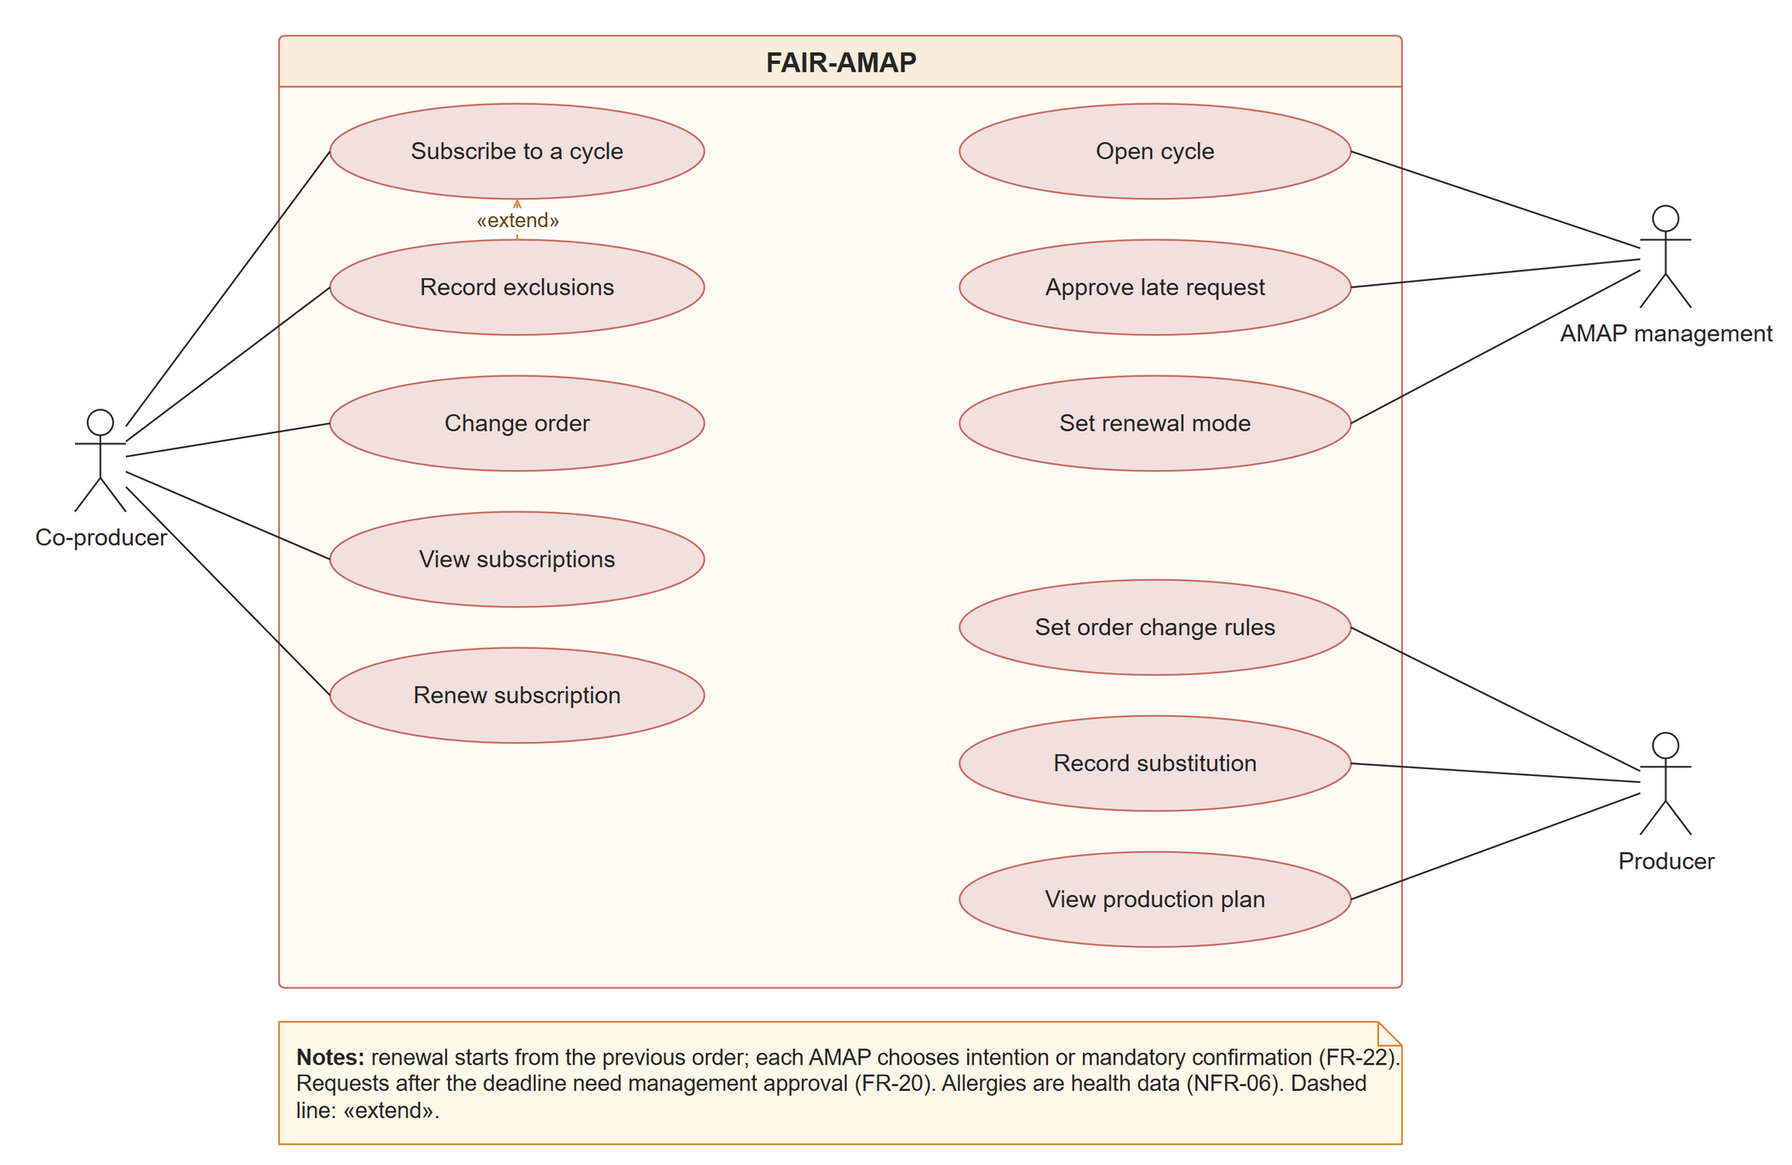
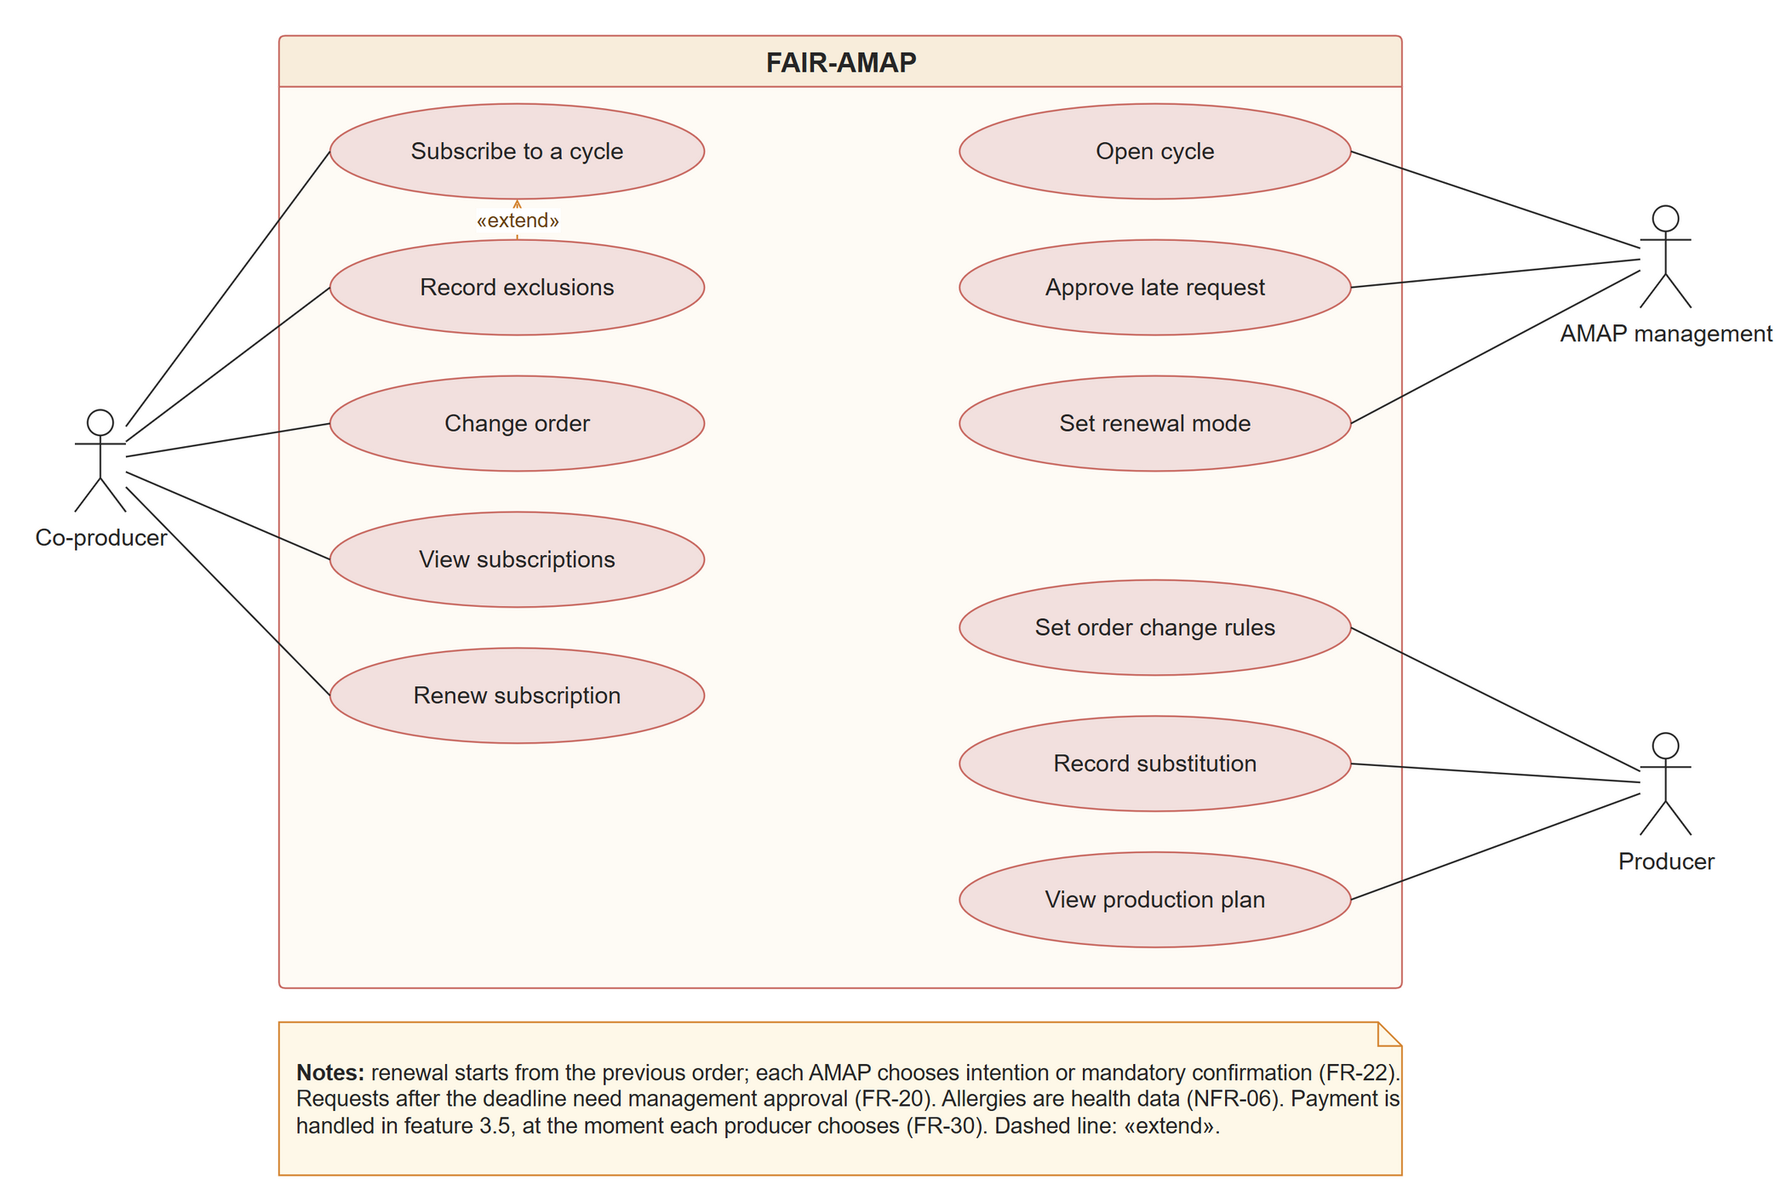
Add use case diagrams and acceptance criteria for cycles and subscriptions feature
- Created English and Portuguese use case diagrams for RF04 (Casos de Uso) in Drawio format.
- Added PNG versions of the diagrams for visual reference.
- Updated acceptance criteria documents in English and Portuguese to include new functional requirements related to cycles and subscriptions (FR-17 to FR-23).
- Introduced new sections detailing the functionality of cycles and subscriptions, including stimulus/response sequences and use case specifications.

diff --git a/docs/srs/3.3_CyclesSubscriptionsPT.md b/docs/srs/3.3_CyclesSubscriptionsPT.md
@@ -1,0 +1,71 @@
+# 3.3 Ciclos e subscrições
+
+**Responsável:** Bruno Alves · **Atualizado em:** 12/11/2026 · **Estado:** rascunho para o relatório
+**Fontes:** [RF03_CiclosSubscricoesPT.md](../requisitos/RF03_CiclosSubscricoesPT.md) (requisitos, fontes e estado) · critérios de aceitação em [12.4](12.4_AcceptanceCriteriaPT.md)
+
+## 3.3.1 Descrição
+Esta funcionalidade organiza o trabalho em ciclos de subscrição (hoje semestrais na AMAP Porto; trimestrais ou anuais noutras) e permite ao coprodutor subscrever, num só passo, os produtos de vários produtores, com as suas opções e exclusões. Substitui o Google Forms e a cópia por email que os coprodutores guardam para se lembrarem do que encomendaram, e dá a cada produtor os totais de que precisa para planear a produção.
+
+**Prioridade: Alta** (5 dos seus 7 requisitos são Must).
+
+## 3.3.2 Sequências estímulo/resposta
+
+*[Figura: `docs/requisitos/diagramas/casos_uso/CasosUsoRF03PT.png`]*
+*Figura 3 – Casos de uso da funcionalidade 3.3 (Ciclos e subscrições)*
+
+*Tabela – Sequências estímulo/resposta da funcionalidade 3.3*
+
+| Ação do utilizador (estímulo) | Resposta do sistema |
+|---|---|
+| A gestão da AMAP abre um ciclo com a sua duração e o prazo de subscrição | Avisa os membros ativos e aceita subscrições até ao prazo |
+| O coprodutor escolhe cabazes, extras, variantes e datas de vários produtores | Mostra um resumo com os valores por produtor e, depois de confirmar, envia a subscrição por email |
+| O coprodutor regista uma alergia ou um produto que não quer | Mostra a exclusão aos produtores que lhe entregam, para registarem a substituição |
+| O coprodutor altera a encomenda durante o ciclo | Aceita a alteração se estiver dentro do prazo do produtor; caso contrário, explica porque não é possível |
+| Chega um pedido de subscrição depois do prazo | Mantém-no pendente até a gestão o aprovar ou recusar |
+| Aproxima-se o fim do ciclo | Pergunta ao coprodutor se vai renovar, com a encomenda anterior já preenchida |
+| O produtor abre o plano de produção | Mostra os totais encomendados por produto, variante, data e AMAP |
+
+### Especificação dos casos de uso
+Os dois casos de uso principais estão detalhados abaixo.
+
+*Tabela – Caso de uso: Subscrever um ciclo (FR-18)*
+
+| | |
+|---|---|
+| **Nome** | Subscrever um ciclo |
+| **Descrição** | Um coprodutor subscreve, num só passo, os produtos de vários produtores da sua AMAP para o ciclo seguinte. |
+| **Atores** | Coprodutor (principal), produtor |
+| **Pré-condições** | 1. O coprodutor é membro ativo da AMAP.<br>2. O ciclo está aberto e o prazo de subscrição ainda não passou. |
+| **Fluxo principal** | 1. O coprodutor abre a página de subscrição do ciclo.<br>2. O sistema mostra os produtos de todos os produtores da AMAP, com preços, variantes e vagas disponíveis.<br>3. O coprodutor escolhe, para cada produto, a quantidade, a variante e, quando se aplica, as datas de entrega.<br>4. O sistema mostra um resumo com os produtos, as datas e o valor estimado por produtor.<br>5. O coprodutor confirma a subscrição.<br>6. O sistema regista a subscrição, envia uma confirmação por email e atualiza os totais de cada produtor. |
+| **Fluxos alternativos** | A1 (passo 3): o coprodutor regista exclusões (alergias, intolerâncias, gostos); o sistema pede consentimento explícito para os dados de saúde.<br>A2 (passo 3): um produto já não tem vagas; o sistema propõe a sua lista de espera (FR-14). |
+| **Exceções** | 1. O prazo já passou: o pedido fica pendente até a gestão o aprovar ou recusar.<br>2. O coprodutor sai antes de confirmar: nada é registado. |
+| **Pós-condições** | 1. A subscrição fica ativa para o ciclo e visível para o coprodutor e para os produtores envolvidos.<br>2. Os pedidos de pagamento ficam agendados segundo as regras de pagamento de cada produtor (FR-31, funcionalidade 3.5). |
+
+*Tabela – Caso de uso: Renovar subscrição (FR-22)*
+
+| | |
+|---|---|
+| **Nome** | Renovar subscrição |
+| **Descrição** | Antes do fim do ciclo, o coprodutor indica se vai continuar, para os produtores planearem o ciclo seguinte. |
+| **Atores** | Coprodutor (principal), gestão da AMAP |
+| **Pré-condições** | 1. O coprodutor tem uma subscrição ativa.<br>2. Chegou a antecedência de renovação definida pela AMAP (ex.: 3 meses antes do novo ciclo). |
+| **Fluxo principal** | 1. O sistema avisa o coprodutor de que a renovação está aberta.<br>2. O coprodutor abre a renovação, com a encomenda anterior já preenchida.<br>3. O coprodutor mantém ou ajusta os produtos.<br>4. O coprodutor confirma que vai renovar.<br>5. O sistema regista a resposta e soma-a aos totais dos produtores para o ciclo seguinte. |
+| **Fluxos alternativos** | A1 (passo 4): o coprodutor indica que não vai renovar; o sistema regista-o e avisa a gestão, que pode oferecer a vaga à lista de espera.<br>A2 (passo 5): a AMAP usa confirmação obrigatória; a resposta passa a ser a subscrição do ciclo seguinte. |
+| **Exceções** | 1. O coprodutor não responde até ao prazo: com confirmação obrigatória, perde a vaga para a lista de espera; só com intenção, o sistema envia um lembrete. |
+| **Pós-condições** | 1. Fica registada a intenção ou a confirmação do coprodutor para o ciclo seguinte. |
+
+## 3.3.3 Requisitos funcionais
+
+*Tabela – Requisitos funcionais da funcionalidade 3.3 (M = Must, S = Should, C = Could)*
+
+| ID | Requisito | Ator | Prioridade |
+|---|---|---|---|
+| FR-17 | O sistema deve permitir criar ciclos de subscrição com duração configurável, data de abertura e data-limite de subscrição. | Gestão da AMAP | M |
+| FR-18 | O sistema deve permitir ao coprodutor subscrever, num só passo, produtos de vários produtores da mesma AMAP, com as suas opções, e receber a confirmação. | Coprodutor | M |
+| FR-19 | O sistema deve permitir ao coprodutor registar exclusões (alergias, intolerâncias, gostos) e ao produtor indicar a substituição feita. | Coprodutor, produtor | M |
+| FR-20 | O sistema deve aplicar os prazos de subscrição e as regras de cada produtor para alterar encomendas durante o ciclo. | Coprodutor, produtor, gestão da AMAP | S |
+| FR-21 | O sistema deve permitir ao coprodutor consultar, a qualquer momento, as subscrições em curso e o histórico. | Coprodutor | M |
+| FR-22 | O sistema deve perguntar aos coprodutores, com antecedência, se renovam, partindo da encomenda anterior. | Coprodutor, gestão da AMAP | S |
+| FR-23 | O sistema deve dar ao produtor a informação para planear a produção: totais encomendados e preferências agregadas. | Produtor | M |
+
+*Os critérios de aceitação de cada requisito estão no Apêndice 12.4.*

diff --git a/docs/srs/3.3_CyclesSubscriptionsEN.md b/docs/srs/3.3_CyclesSubscriptionsEN.md
@@ -1,0 +1,71 @@
+# 3.3 Cycles and subscriptions
+
+**Owner:** Bruno Alves · **Updated on:** 12/11/2026 · **Status:** draft for the report
+**Sources:** [RF03_CiclosSubscricoesEN.md](../requisitos/RF03_CiclosSubscricoesEN.md) (requirements, sources and status) · acceptance criteria in [12.4](12.4_AcceptanceCriteriaEN.md)
+
+## 3.3.1 Description
+This feature organises the work in subscription cycles (currently six-monthly at AMAP Porto; quarterly or yearly in others) and lets the co-producer subscribe, in a single step, to the products of several producers, with their options and exclusions. It replaces the Google Form and the email copy that co-producers keep to remember what they ordered, and gives each producer the totals they need to plan production.
+
+**Priority: High** (5 of its 7 requirements are Must).
+
+## 3.3.2 Stimulus/Response Sequences
+
+*[Figure: `docs/requisitos/diagramas/casos_uso/CasosUsoRF03EN.png`]*
+*Figure 3 – Use cases of feature 3.3 (Cycles and subscriptions)*
+
+*Table – Stimulus/response sequences of feature 3.3*
+
+| User action (stimulus) | System response |
+|---|---|
+| AMAP management opens a cycle with its length and subscription deadline | Notifies the active members and accepts subscriptions until the deadline |
+| The co-producer chooses baskets, extras, variants and dates from several producers | Shows a summary with the amounts per producer and, after confirmation, sends the subscription by email |
+| The co-producer records an allergy or a product they do not want | Shows the exclusion to the producers who deliver to them, so they can record the substitution |
+| The co-producer changes their order during the cycle | Accepts the change if it is within the producer's deadline; otherwise explains why it cannot be made |
+| A subscription request arrives after the deadline | Keeps it pending until management approves or refuses it |
+| The end of the cycle is approaching | Asks the co-producer whether they will renew, with the previous order pre-filled |
+| The producer opens the production plan | Shows the totals ordered per product, variant, date and AMAP |
+
+### Use case specifications
+The two main use cases are detailed below.
+
+*Table – Use case: Subscribe to a cycle (FR-18)*
+
+| | |
+|---|---|
+| **Name** | Subscribe to a cycle |
+| **Description** | A co-producer subscribes, in a single step, to the products of several producers of their AMAP for the next cycle. |
+| **Actors** | Co-producer (primary), Producer |
+| **Preconditions** | 1. The co-producer is an active member of the AMAP.<br>2. The cycle is open and the subscription deadline has not passed. |
+| **Main flow** | 1. The co-producer opens the cycle's subscription page.<br>2. The system shows the products of all the AMAP's producers, with prices, variants and available places.<br>3. The co-producer chooses, for each product, the quantity, the variant and, where applicable, the delivery dates.<br>4. The system shows a summary with the products, dates and estimated amount per producer.<br>5. The co-producer confirms the subscription.<br>6. The system records the subscription, sends a confirmation by email and updates each producer's totals. |
+| **Alternative flows** | A1 (step 3): the co-producer records exclusions (allergies, intolerances, dislikes); the system asks for explicit consent for health data.<br>A2 (step 3): a product has no places left; the system offers its waiting list (FR-14). |
+| **Exceptions** | 1. The deadline has passed: the request stays pending until management approves or refuses it.<br>2. The co-producer leaves before confirming: nothing is recorded. |
+| **Postconditions** | 1. The subscription is active for the cycle and visible to the co-producer and to the producers concerned.<br>2. The payment requests are scheduled according to each producer's payment rules (FR-31, feature 3.5). |
+
+*Table – Use case: Renew subscription (FR-22)*
+
+| | |
+|---|---|
+| **Name** | Renew subscription |
+| **Description** | Before the cycle ends, the co-producer states whether they will continue, so producers can plan the next cycle. |
+| **Actors** | Co-producer (primary), AMAP management |
+| **Preconditions** | 1. The co-producer has an active subscription.<br>2. The renewal lead time set by the AMAP has been reached (e.g. 3 months before the new cycle). |
+| **Main flow** | 1. The system notifies the co-producer that renewal is open.<br>2. The co-producer opens the renewal, with the previous order pre-filled.<br>3. The co-producer keeps or adjusts the products.<br>4. The co-producer confirms that they will renew.<br>5. The system records the answer and adds it to the producers' totals for the next cycle. |
+| **Alternative flows** | A1 (step 4): the co-producer says they will not renew; the system records it and notifies management, who can offer the place to the waiting list.<br>A2 (step 5): the AMAP uses mandatory confirmation; the answer becomes the subscription for the next cycle. |
+| **Exceptions** | 1. The co-producer does not answer by the deadline: with mandatory confirmation they lose their place to the waiting list; with intention only, the system sends a reminder. |
+| **Postconditions** | 1. The co-producer's intention or confirmation for the next cycle is recorded. |
+
+## 3.3.3 Functional Requirements
+
+*Table – Functional requirements of feature 3.3 (M = Must, S = Should, C = Could)*
+
+| ID | Requirement | Actor | Priority |
+|---|---|---|---|
+| FR-17 | The system shall allow creating subscription cycles with a configurable length, an opening date and a subscription deadline. | AMAP management | M |
+| FR-18 | The system shall allow the co-producer to subscribe, in a single step, to products from several producers of the same AMAP, with their options, and receive a confirmation. | Co-producer | M |
+| FR-19 | The system shall allow the co-producer to record exclusions (allergies, intolerances, dislikes) and the producer to record the substitution made. | Co-producer, Producer | M |
+| FR-20 | The system shall apply subscription deadlines and each producer's rules for changing orders during the cycle. | Co-producer, Producer, AMAP management | S |
+| FR-21 | The system shall allow the co-producer to view, at any time, their current subscriptions and history. | Co-producer | M |
+| FR-22 | The system shall ask co-producers in advance whether they will renew, starting from their previous order. | Co-producer, AMAP management | S |
+| FR-23 | The system shall give the producer the information needed to plan production: totals ordered and aggregated preferences. | Producer | M |
+
+*Acceptance criteria for each requirement are in Appendix 12.4.*

diff --git a/docs/srs/12.4_AcceptanceCriteriaPT.md b/docs/srs/12.4_AcceptanceCriteriaPT.md
@@ -1,7 +1,7 @@
 # 12.4 Apêndice – Critérios de aceitação
 
-**Responsável:** Bruno Alves · **Atualizado em:** 12/11/2026 · **Estado:** funcionalidades 3.1 e 3.2 feitas
-**Fontes:** os ficheiros de requisitos em [requisitos/](../requisitos/README.md) (RF01, RF02), atualizados depois da entrevista de 10/11 (E-8)
+**Responsável:** Bruno Alves · **Atualizado em:** 12/11/2026 · **Estado:** funcionalidades 3.1 a 3.3 feitas
+**Fontes:** os ficheiros de requisitos em [requisitos/](../requisitos/README.md) (RF01 a RF03), atualizados depois da entrevista de 10/11 (E-8)
 
 Este apêndice reúne os critérios de aceitação de cada requisito funcional da secção 3. Detalham o que cada requisito tem de fazer e como pode ser verificado.
 
@@ -99,3 +99,36 @@ Este apêndice reúne os critérios de aceitação de cada requisito funcional d
 #### FR-16
 - O produtor pode limitar a oferta a um número máximo de coprodutores (por ordem de chegada) e/ou a uma quantidade máxima por pessoa.
 - O produtor indica a quantidade disponível; o sistema desconta-a à medida que chegam encomendas e fecha a oferta quando se esgota; o produtor pode ajustar a quantidade a qualquer momento.
+
+## 12.4.3 Funcionalidade 3.3 – Ciclos e subscrições
+
+#### FR-17
+- A duração do ciclo é configurável (ex.: 3, 6 ou 12 meses), com data de abertura e data-limite de subscrição.
+- *(Could)* O período de compromisso do coprodutor pode ser diferente da duração do ciclo de ofertas (PA-02).
+
+#### FR-18
+- Num só passo, o coprodutor subscreve produtos de vários produtores da mesma AMAP.
+- Para cada produto escolhe a quantidade, a variante e, quando se aplica, as datas de entrega (ex.: carne).
+- Os pedidos que hoje vão para texto livre têm opções estruturadas (ex.: opções da carne, avulso em vez de cabaz, variar o pão durante o ciclo).
+- O sistema envia uma confirmação com os produtos, as datas e os valores por produtor.
+
+#### FR-19
+- O coprodutor regista exclusões (alergias, intolerâncias, gostos); as alergias são dados de saúde e precisam de consentimento explícito (NFR-06).
+- O produtor regista a substituição feita.
+
+#### FR-20
+- Os pedidos depois do prazo ficam pendentes até a gestão os aprovar ou recusar.
+- Cada produtor define se o coprodutor pode alterar a encomenda e com que antecedência em relação a cada entrega (ex.: pão até domingo para a entrega de terça).
+- O coprodutor pode alterar a encomenda durante o ciclo, dentro dessas regras.
+- *(Could)* O produtor pode pedir que uma encomenda seja confirmada ou alterada antes de uma entrega futura (ex.: azeite de dezembro igual ao de setembro).
+
+#### FR-21
+- O coprodutor vê as subscrições em curso e o histórico a qualquer momento, sem precisar de guardar a cópia do formulário recebida por email.
+
+#### FR-22
+- A antecedência é configurável (ex.: 3 meses antes do novo ciclo), porque as culturas são plantadas com antecedência.
+- Cada AMAP escolhe o modo: intenção, apenas indicativa, para o produtor planear; ou confirmação obrigatória até uma data, perdendo a vaga para a lista de espera quem não confirmar.
+
+#### FR-23
+- O produtor vê o total encomendado por produto, variante, data de entrega e AMAP, para planear a produção e a colheita.
+- *(Could)* O produtor vê as preferências e exclusões agregadas, para planear a produção do ciclo seguinte.

diff --git a/docs/srs/12.4_AcceptanceCriteriaEN.md b/docs/srs/12.4_AcceptanceCriteriaEN.md
@@ -1,7 +1,7 @@
 # 12.4 Appendix – Acceptance criteria
 
-**Owner:** Bruno Alves · **Updated on:** 12/11/2026 · **Status:** features 3.1 and 3.2 done
-**Sources:** the requirement files in [requisitos/](../requisitos/README.md) (RF01, RF02), updated after the interview of 10/11 (E-8)
+**Owner:** Bruno Alves · **Updated on:** 12/11/2026 · **Status:** features 3.1 to 3.3 done
+**Sources:** the requirement files in [requisitos/](../requisitos/README.md) (RF01 to RF03), updated after the interview of 10/11 (E-8)
 
 This appendix lists the acceptance criteria of each functional requirement in section 3. They detail what each requirement must do and how it can be verified.
 
@@ -99,3 +99,36 @@ This appendix lists the acceptance criteria of each functional requirement in se
 #### FR-16
 - The producer can limit the offer to a maximum number of co-producers (first come, first served) and/or a maximum quantity per person.
 - The producer states the available quantity; the system deducts it as orders arrive and closes the offer when it runs out; the producer can adjust the quantity at any time.
+
+## 12.4.3 Feature 3.3 – Cycles and subscriptions
+
+#### FR-17
+- The cycle length is configurable (e.g. 3, 6 or 12 months), with an opening date and a subscription deadline.
+- *(Could)* The co-producer's commitment period may differ from the length of the offer cycle (PA-02).
+
+#### FR-18
+- In a single step, the co-producer subscribes to products from several producers of the same AMAP.
+- For each product they choose the quantity, the variant and, where applicable, the delivery dates (e.g. meat).
+- Requests that currently go into free text have structured options (e.g. meat options, loose instead of basket, varying the bread during the cycle).
+- The system sends a confirmation with the products, dates and amounts per producer.
+
+#### FR-19
+- The co-producer records exclusions (allergies, intolerances, dislikes); allergies are health data and need explicit consent (NFR-06).
+- The producer records the substitution made.
+
+#### FR-20
+- Requests after the deadline stay pending until management approves or refuses them.
+- Each producer defines whether the co-producer can change their order and how long before each delivery (e.g. bread until Sunday for the Tuesday delivery).
+- The co-producer can change their order during the cycle, within those rules.
+- *(Could)* The producer can ask for an order to be confirmed or changed before a future delivery (e.g. December olive oil same as September).
+
+#### FR-21
+- The co-producer sees their current subscriptions and history at any time, with no need to keep the form copy received by email.
+
+#### FR-22
+- The lead time is configurable (e.g. 3 months before the new cycle), because crops are planted in advance.
+- Each AMAP chooses the mode: intention, indicative only, so the producer can plan; or mandatory confirmation by a deadline, with those who do not confirm losing their place to the waiting list.
+
+#### FR-23
+- The producer sees the total ordered per product, variant, delivery date and AMAP, to plan production and harvesting.
+- *(Could)* The producer sees aggregated preferences and exclusions to plan the next cycle's production.
